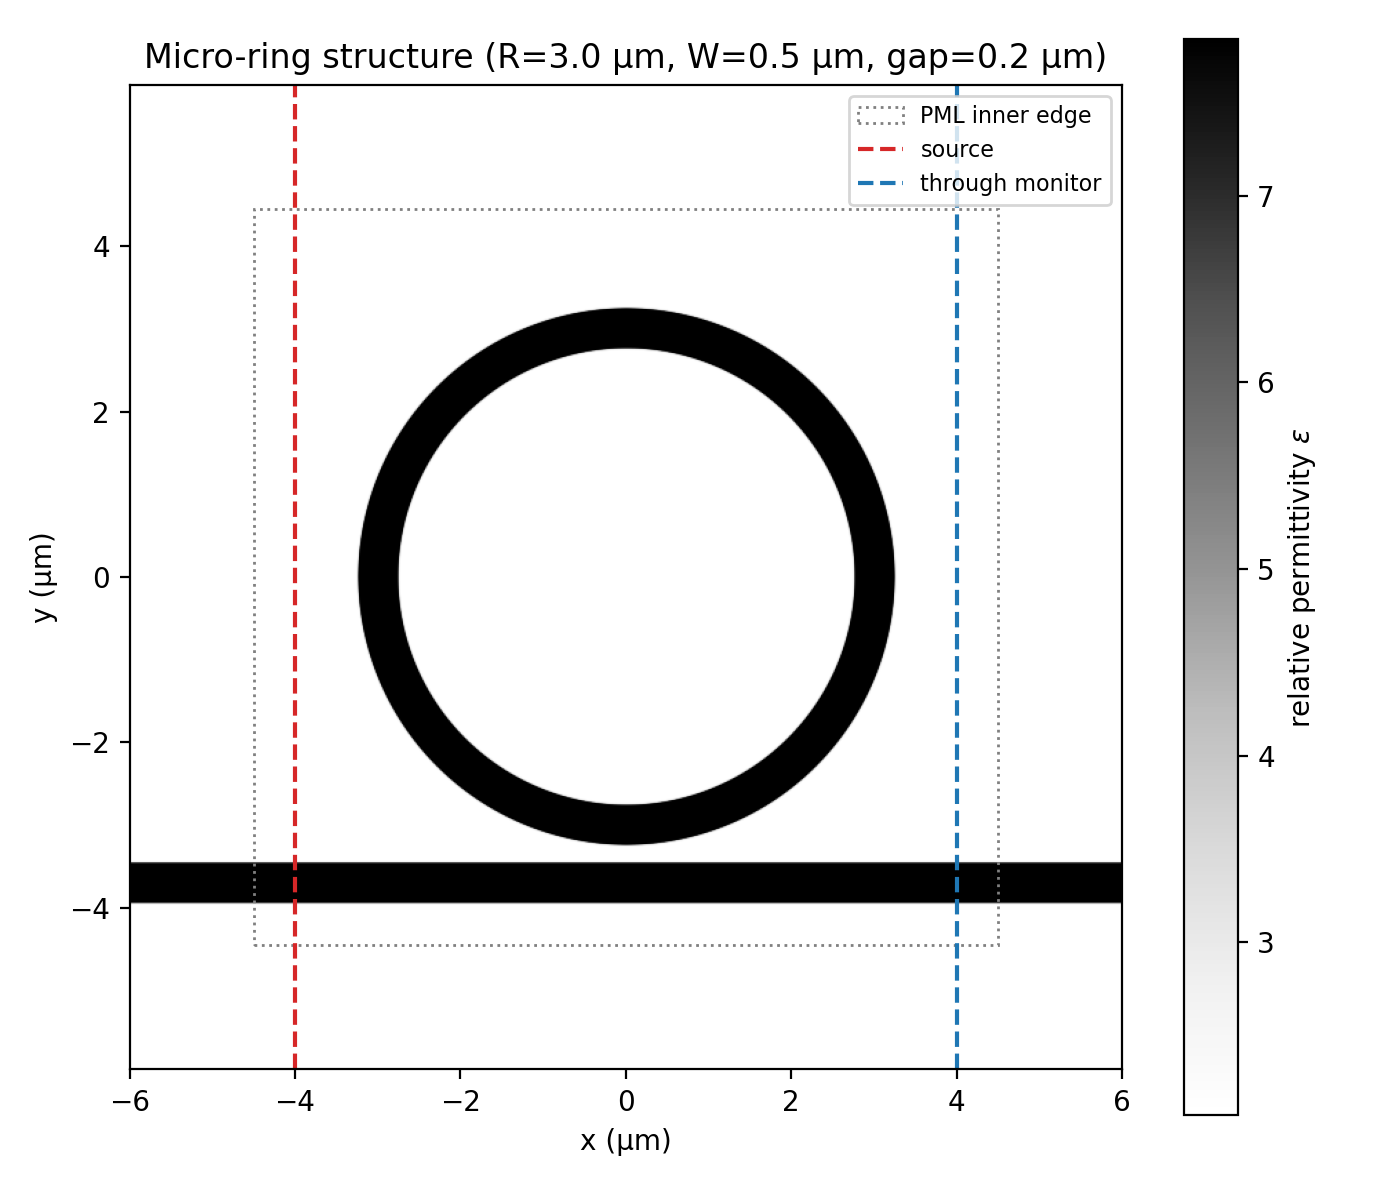
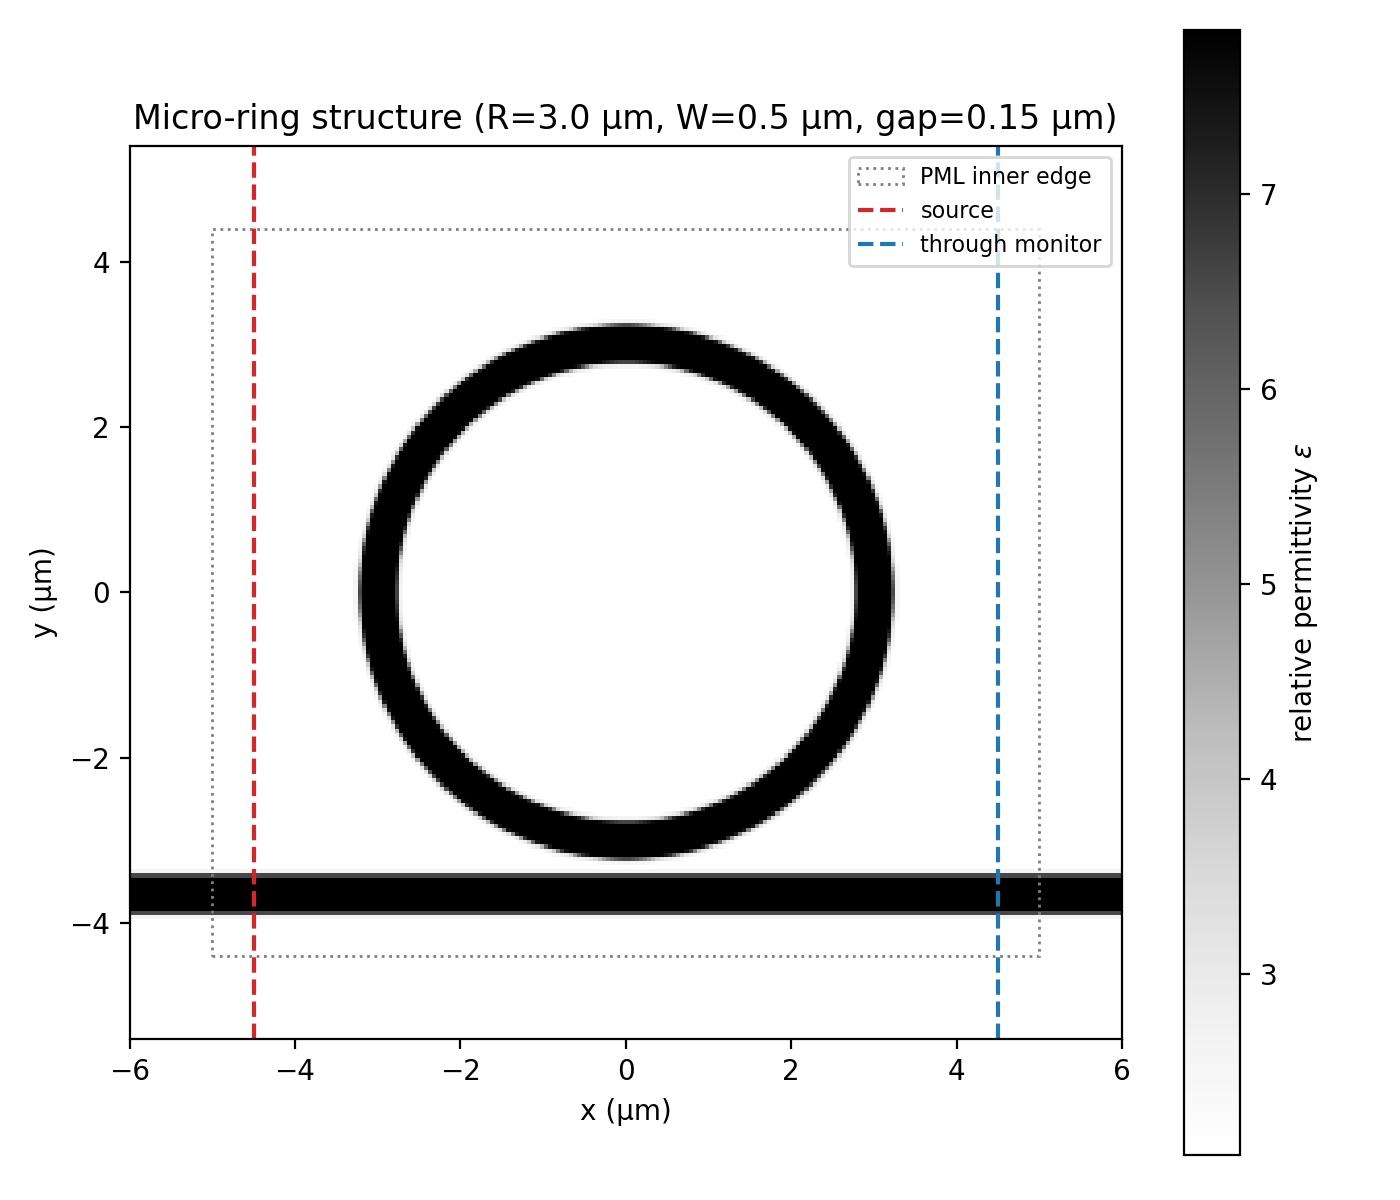
Add files via upload

diff --git a/micro_ring_modulator_meep.py b/micro_ring_modulator_meep.py
@@ -39,16 +39,16 @@ import meep as mp
 PARAMS = dict(
     R=3.0,            # 環「中心線」半徑 (µm)
     W=0.5,            # 波導寬度 (µm)，環與直波導相同
-    GAP=0.20,         # 直波導與環邊緣之間的間隙 (µm)
+    GAP=0.15,         # 直波導與環邊緣之間的間隙 (µm)
     N_SI=2.8,         # 矽的等效折射率（2D 近似）
     N_CLAD=1.44,      # 包覆層 SiO2 的折射率
-    WVL_MIN=1.535,     # 掃描波長下限 (µm)
-    WVL_MAX=1.555,     # 掃描波長上限 (µm)
-    NFREQ=1200,        # 頻率取樣點數（越多光譜越細）
-    RESOLUTION=60,    # 每 µm 的像素數（40 -> 25 nm/像素）
-    DPML=1.5,         # PML 吸收邊界厚度 (µm)
+    WVL_MIN=1.54,     # 掃描波長下限 (µm)
+    WVL_MAX=1.55,     # 掃描波長上限 (µm)
+    NFREQ=800,        # 頻率取樣點數（越多光譜越細）
+    RESOLUTION=20,    # 每 µm 的像素數（40 -> 25 nm/像素）
+    DPML=1.0,         # PML 吸收邊界厚度 (µm)
     DN_ON=-0.004,     # 電壓 ON 時的折射率變化 Δn（示意值，之後用 Soref 公式算）
-    DALPHA_ON=0,   # 電壓 ON 時的額外吸收 Δα (cm^-1)（示意值）
+    DALPHA_ON=15.0,   # 電壓 ON 時的額外吸收 Δα (cm^-1)（示意值）
     DECAY=1e-5,       # 場衰減到多小才停止模擬（越小越準，但跑越久）
 )
 
